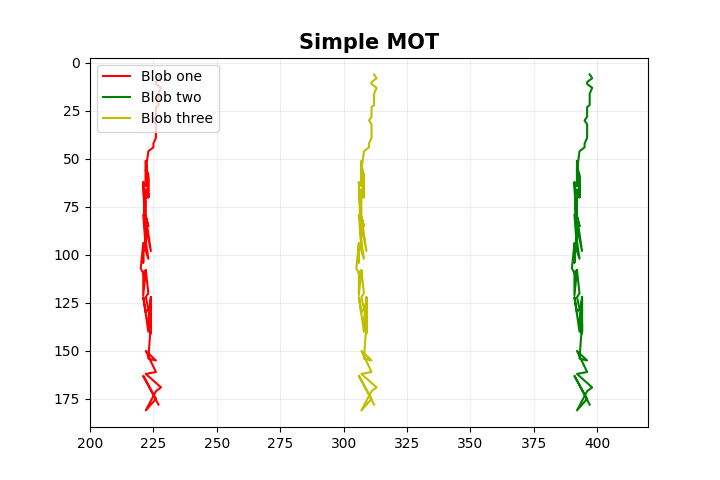
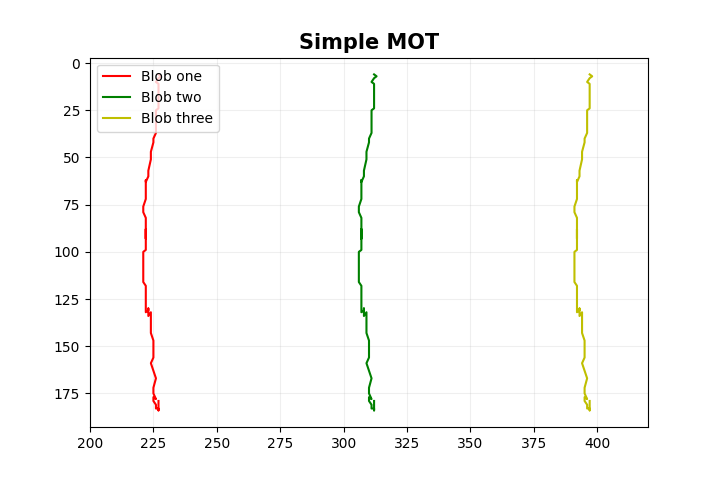
smooth track + prepare new plot

diff --git a/src/mot/simple.rs b/src/mot/simple.rs
@@ -51,7 +51,7 @@ impl SimpleTracker {
         for (_, object) in self.objects.iter_mut() {
             object.deactivate(); // Make sure that object is marked as deactivated
             // object.predict_next_position_naive(5);
-            // object.predict_next_position();
+            object.predict_next_position();
         }
         let mut blobs_to_register: HashMap<Uuid, SimpleBlob> = HashMap::new();
         for new_object in new_objects {
@@ -60,16 +60,12 @@ impl SimpleTracker {
             let mut min_distance = f32::MAX;
             for (j, object) in self.objects.iter() {
                 let dist = new_object.distance_to(object);
-                if dist < min_distance {
-                    min_distance = dist;
+                let dist_predicted = new_object.distance_to_predicted(object);
+                let dist_verified = f32::min(dist, dist_predicted);
+                if dist_verified < min_distance {
+                    min_distance = dist_verified;
                     min_id = *j;
                 }
-                // let dist_predicted = new_object.distance_to_predicted(object);
-                // let dist_verified = f32::min(dist, dist_predicted);
-                // if dist_verified < min_distance {
-                //     min_distance = dist_verified;
-                //     min_id = *j;
-                // }
             }
             // println!("\tNew object. Min ID: {}. Mid distance: {}", min_id, min_distance);
             // Additional check to filter objects
@@ -109,30 +105,23 @@ mod tests {
         let bboxes_one: Vec<Vec<i32>> = vec![vec![236, -25, 386, 35], vec![237, -24, 387, 36], vec![238, -22, 388, 38], vec![236, -20, 386, 40], vec![236, -19, 386, 41], vec![237, -18, 387, 42], vec![237, -18, 387, 42], vec![238, -17, 388, 43], vec![237, -14, 387, 46], vec![237, -14, 387, 46], vec![237, -12, 387, 48], vec![237, -12, 387, 48], vec![237, -11, 387, 49], vec![237, -11, 387, 49], vec![237, -10, 387, 50], vec![237, -10, 387, 50], vec![237, -8, 387, 52], vec![237, -8, 387, 52], vec![236, -7, 386, 53], vec![236, -7, 386, 53], vec![236, -6, 386, 54], vec![236, -6, 386, 54], vec![236, -2, 386, 58], vec![235, 0, 385, 60], vec![236, 2, 386, 62], vec![236, 5, 386, 65], vec![236, 9, 386, 69], vec![235, 12, 385, 72], vec![235, 14, 385, 74], vec![233, 16, 383, 76], vec![232, 26, 382, 86], vec![233, 28, 383, 88], vec![233, 40, 383, 100], vec![233, 30, 383, 90], vec![232, 22, 382, 82], vec![232, 34, 382, 94], vec![232, 21, 382, 81], vec![233, 40, 383, 100], vec![232, 40, 382, 100], vec![232, 40, 382, 100], vec![232, 36, 382, 96], vec![232, 53, 382, 113], vec![232, 50, 382, 110], vec![233, 55, 383, 115], vec![232, 50, 382, 110], vec![234, 68, 384, 128], vec![231, 49, 381, 109], vec![232, 68, 382, 128], vec![231, 31, 381, 91], vec![232, 64, 382, 124], vec![233, 71, 383, 131], vec![231, 64, 381, 124], vec![231, 74, 381, 134], vec![231, 64, 381, 124], vec![230, 77, 380, 137], vec![232, 82, 382, 142], vec![232, 78, 382, 138], vec![232, 78, 382, 138], vec![231, 79, 381, 139], vec![231, 79, 381, 139], vec![231, 91, 381, 151], vec![232, 78, 382, 138], vec![232, 78, 382, 138], vec![233, 90, 383, 150], vec![232, 92, 382, 152], vec![232, 92, 382, 152], vec![233, 98, 383, 158], vec![232, 100, 382, 160], vec![231, 92, 381, 152], vec![233, 110, 383, 170], vec![234, 92, 384, 152], vec![234, 92, 384, 152], vec![234, 110, 384, 170], vec![234, 92, 384, 152], vec![233, 104, 383, 164], vec![234, 111, 384, 171], vec![234, 106, 384, 166], vec![234, 106, 384, 166], vec![233, 124, 383, 184], vec![236, 125, 386, 185], vec![236, 125, 386, 185], vec![232, 120, 382, 180], vec![236, 131, 386, 191], vec![232, 132, 382, 192], vec![238, 139, 388, 199], vec![236, 141, 386, 201], vec![232, 151, 382, 211], vec![236, 145, 386, 205], vec![236, 145, 386, 205], vec![231, 133, 381, 193], vec![237, 148, 387, 208], vec![237, 148, 387, 208], vec![237, 148, 387, 208], vec![237, 148, 387, 208], vec![237, 148, 387, 208], vec![237, 148, 387, 208], vec![237, 148, 387, 208], vec![237, 148, 387, 208], vec![237, 148, 387, 208], vec![237, 148, 387, 208], vec![237, 148, 387, 208], vec![237, 148, 387, 208], vec![237, 148, 387, 208], vec![237, 148, 387, 208], vec![237, 148, 387, 208], vec![237, 148, 387, 208], vec![237, 148, 387, 208], vec![237, 148, 387, 208], vec![237, 148, 387, 208], vec![237, 148, 387, 208], vec![237, 148, 387, 208], vec![237, 148, 387, 208]];
         let bboxes_two: Vec<Vec<i32>> = vec![vec![321, -25, 471, 35], vec![322, -24, 472, 36], vec![323, -22, 473, 38], vec![321, -20, 471, 40], vec![321, -19, 471, 41], vec![322, -18, 472, 42], vec![322, -18, 472, 42], vec![323, -17, 473, 43], vec![322, -14, 472, 46], vec![322, -14, 472, 46], vec![322, -12, 472, 48], vec![322, -12, 472, 48], vec![322, -11, 472, 49], vec![322, -11, 472, 49], vec![322, -10, 472, 50], vec![322, -10, 472, 50], vec![322, -8, 472, 52], vec![322, -8, 472, 52], vec![321, -7, 471, 53], vec![321, -7, 471, 53], vec![321, -6, 471, 54], vec![321, -6, 471, 54], vec![321, -2, 471, 58], vec![320, 0, 470, 60], vec![321, 2, 471, 62], vec![321, 5, 471, 65], vec![321, 9, 471, 69], vec![320, 12, 470, 72], vec![320, 14, 470, 74], vec![318, 16, 468, 76], vec![317, 26, 467, 86], vec![318, 28, 468, 88], vec![318, 40, 468, 100], vec![318, 30, 468, 90], vec![317, 22, 467, 82], vec![317, 34, 467, 94], vec![317, 21, 467, 81], vec![318, 40, 468, 100], vec![317, 40, 467, 100], vec![317, 40, 467, 100], vec![317, 36, 467, 96], vec![317, 53, 467, 113], vec![317, 50, 467, 110], vec![318, 55, 468, 115], vec![317, 50, 467, 110], vec![319, 68, 469, 128], vec![316, 49, 466, 109], vec![317, 68, 467, 128], vec![316, 31, 466, 91], vec![317, 64, 467, 124], vec![318, 71, 468, 131], vec![316, 64, 466, 124], vec![316, 74, 466, 134], vec![316, 64, 466, 124], vec![315, 77, 465, 137], vec![317, 82, 467, 142], vec![317, 78, 467, 138], vec![317, 78, 467, 138], vec![316, 79, 466, 139], vec![316, 79, 466, 139], vec![316, 91, 466, 151], vec![317, 78, 467, 138], vec![317, 78, 467, 138], vec![318, 90, 468, 150], vec![317, 92, 467, 152], vec![317, 92, 467, 152], vec![318, 98, 468, 158], vec![317, 100, 467, 160], vec![316, 92, 466, 152], vec![318, 110, 468, 170], vec![319, 92, 469, 152], vec![319, 92, 469, 152], vec![319, 110, 469, 170], vec![319, 92, 469, 152], vec![318, 104, 468, 164], vec![319, 111, 469, 171], vec![319, 106, 469, 166], vec![319, 106, 469, 166], vec![318, 124, 468, 184], vec![321, 125, 471, 185], vec![321, 125, 471, 185], vec![317, 120, 467, 180], vec![321, 131, 471, 191], vec![317, 132, 467, 192], vec![323, 139, 473, 199], vec![321, 141, 471, 201], vec![317, 151, 467, 211], vec![321, 145, 471, 205], vec![321, 145, 471, 205], vec![316, 133, 466, 193], vec![322, 148, 472, 208], vec![322, 148, 472, 208], vec![322, 148, 472, 208], vec![322, 148, 472, 208], vec![322, 148, 472, 208], vec![322, 148, 472, 208], vec![322, 148, 472, 208], vec![322, 148, 472, 208], vec![322, 148, 472, 208], vec![322, 148, 472, 208], vec![322, 148, 472, 208], vec![322, 148, 472, 208], vec![322, 148, 472, 208], vec![322, 148, 472, 208], vec![322, 148, 472, 208], vec![322, 148, 472, 208], vec![322, 148, 472, 208], vec![322, 148, 472, 208], vec![322, 148, 472, 208], vec![322, 148, 472, 208], vec![322, 148, 472, 208], vec![322, 148, 472, 208]];
         let bboxes_three: Vec<Vec<i32>> = vec![vec![151, -25, 301, 35], vec![152, -24, 302, 36], vec![153, -22, 303, 38], vec![151, -20, 301, 40], vec![151, -19, 301, 41], vec![152, -18, 302, 42], vec![152, -18, 302, 42], vec![153, -17, 303, 43], vec![152, -14, 302, 46], vec![152, -14, 302, 46], vec![152, -12, 302, 48], vec![152, -12, 302, 48], vec![152, -11, 302, 49], vec![152, -11, 302, 49], vec![152, -10, 302, 50], vec![152, -10, 302, 50], vec![152, -8, 302, 52], vec![152, -8, 302, 52], vec![151, -7, 301, 53], vec![151, -7, 301, 53], vec![151, -6, 301, 54], vec![151, -6, 301, 54], vec![151, -2, 301, 58], vec![150, 0, 300, 60], vec![151, 2, 301, 62], vec![151, 5, 301, 65], vec![151, 9, 301, 69], vec![150, 12, 300, 72], vec![150, 14, 300, 74], vec![148, 16, 298, 76], vec![147, 26, 297, 86], vec![148, 28, 298, 88], vec![148, 40, 298, 100], vec![148, 30, 298, 90], vec![147, 22, 297, 82], vec![147, 34, 297, 94], vec![147, 21, 297, 81], vec![148, 40, 298, 100], vec![147, 40, 297, 100], vec![147, 40, 297, 100], vec![147, 36, 297, 96], vec![147, 53, 297, 113], vec![147, 50, 297, 110], vec![148, 55, 298, 115], vec![147, 50, 297, 110], vec![149, 68, 299, 128], vec![146, 49, 296, 109], vec![147, 68, 297, 128], vec![146, 31, 296, 91], vec![147, 64, 297, 124], vec![148, 71, 298, 131], vec![146, 64, 296, 124], vec![146, 74, 296, 134], vec![146, 64, 296, 124], vec![145, 77, 295, 137], vec![147, 82, 297, 142], vec![147, 78, 297, 138], vec![147, 78, 297, 138], vec![146, 79, 296, 139], vec![146, 79, 296, 139], vec![146, 91, 296, 151], vec![147, 78, 297, 138], vec![147, 78, 297, 138], vec![148, 90, 298, 150], vec![147, 92, 297, 152], vec![147, 92, 297, 152], vec![148, 98, 298, 158], vec![147, 100, 297, 160], vec![146, 92, 296, 152], vec![148, 110, 298, 170], vec![149, 92, 299, 152], vec![149, 92, 299, 152], vec![149, 110, 299, 170], vec![149, 92, 299, 152], vec![148, 104, 298, 164], vec![149, 111, 299, 171], vec![149, 106, 299, 166], vec![149, 106, 299, 166], vec![148, 124, 298, 184], vec![151, 125, 301, 185], vec![151, 125, 301, 185], vec![147, 120, 297, 180], vec![151, 131, 301, 191], vec![147, 132, 297, 192], vec![153, 139, 303, 199], vec![151, 141, 301, 201], vec![147, 151, 297, 211], vec![151, 145, 301, 205], vec![151, 145, 301, 205], vec![146, 133, 296, 193], vec![152, 148, 302, 208], vec![152, 148, 302, 208], vec![152, 148, 302, 208], vec![152, 148, 302, 208], vec![152, 148, 302, 208], vec![152, 148, 302, 208], vec![152, 148, 302, 208], vec![152, 148, 302, 208], vec![152, 148, 302, 208], vec![152, 148, 302, 208], vec![152, 148, 302, 208], vec![152, 148, 302, 208], vec![152, 148, 302, 208], vec![152, 148, 302, 208], vec![152, 148, 302, 208], vec![152, 148, 302, 208], vec![152, 148, 302, 208], vec![152, 148, 302, 208], vec![152, 148, 302, 208], vec![152, 148, 302, 208], vec![152, 148, 302, 208], vec![152, 148, 302, 208]];
-        // let bboxes_one: Vec<Vec<i32>> = vec![vec![236, -25, 386, 35], vec![237, -24, 387, 36]];
-        // let bboxes_two: Vec<Vec<i32>> = vec![vec![321, -25, 471, 35], vec![322, -24, 472, 36]];
-        // let bboxes_three: Vec<Vec<i32>> = vec![vec![151, -25, 301, 35], vec![152, -24, 302, 36]];
         let mut mot = super::SimpleTracker::new(5, 15.0);
-        
-        println!("measurement X;measurement Y;prediction X;prediction Y;updated X;updated Y");
+        let dt = 0.04; // 1/25 FPS = 0.04
 
         for (bbox_one, bbox_two, bbox_three) in itertools::izip!(bboxes_one, bboxes_two, bboxes_three) {
-            let blob_one = super::SimpleBlob::new(crate::utils::Rect::new(bbox_one[0], bbox_one[1], bbox_one[2]-bbox_one[0], bbox_one[3]-bbox_one[1]));
-            let blob_two = super::SimpleBlob::new(crate::utils::Rect::new(bbox_two[0],bbox_two[1],bbox_two[2] -bbox_two[0],bbox_two[3]- bbox_two[1]));
-            let blob_three = super::SimpleBlob::new(crate::utils::Rect::new(bbox_three[0],bbox_three[1],bbox_three[2] -bbox_three[0],bbox_three[3]- bbox_three[1]));
+            let blob_one = super::SimpleBlob::new_with_dt(crate::utils::Rect::new(bbox_one[0], bbox_one[1], bbox_one[2]-bbox_one[0], bbox_one[3]-bbox_one[1]), dt);
+            let blob_two = super::SimpleBlob::new_with_dt(crate::utils::Rect::new(bbox_two[0],bbox_two[1],bbox_two[2] -bbox_two[0],bbox_two[3]- bbox_two[1]), dt);
+            let blob_three = super::SimpleBlob::new_with_dt(crate::utils::Rect::new(bbox_three[0],bbox_three[1],bbox_three[2] -bbox_three[0],bbox_three[3]- bbox_three[1]), dt);
 
-            // match mot.match_objects(vec![blob_one, blob_two, blob_three]) {
-            match mot.match_objects(vec![blob_one]) {
-                Ok(_) => {
-                    // println!("{:?}", mot.objects.len());
-                },
+            match mot.match_objects(vec![blob_one, blob_two, blob_three]) {
+                Ok(_) => {},
                 Err(err) => {
                     println!("{:?}", err);
                 }
             };
         }
 
-        // assert_eq!(mot.objects.len(), 3);
+        assert_eq!(mot.objects.len(), 3);
 
         // for object in mot.objects {
         //     println!("{}", object.0);

diff --git a/src/mot/blob.rs b/src/mot/blob.rs
@@ -38,11 +38,36 @@ pub struct SimpleBlob {
 }
 
 impl SimpleBlob {
+    pub fn new_with_dt(_current_bbox: Rect, dt: f32) -> Self {
+        let center_x = _current_bbox.x as f32 + 0.5 * _current_bbox.width as f32;
+        let center_y = _current_bbox.y as f32 + 0.5 * _current_bbox.height as f32;
+        let _diagonal = f32::sqrt((_current_bbox.width*_current_bbox.width) as f32 + (_current_bbox.height*_current_bbox.height) as f32);
+        /* Kalman filter props */
+        //
+        // Why set initial state at all? See answer here: https://github.com/LdDl/kalman-rs/blob/master/src/kalman/kalman_2d.rs#L126
+        //
+        let ux = 1.0;
+        let uy = 1.0;
+        let std_dev_a = 2.0;
+        let std_dev_mx = 0.1;
+        let std_dev_my = 0.1;
+        let kf = Kalman2D::new_with_state(dt, ux, uy, std_dev_a, std_dev_mx, std_dev_my, center_x, center_y);
+        SimpleBlob {
+            current_bbox: _current_bbox,
+            current_center: Point::new(f32::round(center_x) as i32, f32::round(center_y) as i32),
+            predicted_next_position: Point::default(),
+            track: Vec::new(),
+            max_track_len: 150,
+            active: false,
+            no_match_times: 0,
+            diagonal: _diagonal,
+            tracker: kf
+        }
+    }
     pub fn new(_current_bbox: Rect) -> Self {
         let center_x = _current_bbox.x as f32 + 0.5 * _current_bbox.width as f32;
         let center_y = _current_bbox.y as f32 + 0.5 * _current_bbox.height as f32;
         let _diagonal = f32::sqrt((_current_bbox.width*_current_bbox.width) as f32 + (_current_bbox.height*_current_bbox.height) as f32);
-
         /* Kalman filter props */
         //
         // Why set initial state at all? See answer here: https://github.com/LdDl/kalman-rs/blob/master/src/kalman/kalman_2d.rs#L126
@@ -63,26 +88,6 @@ impl SimpleBlob {
             active: false,
             no_match_times: 0,
             diagonal: _diagonal,
-            tracker: kf
-        }
-    }
-    pub fn partial_copy(&self) -> Self {
-        let dt = 1.0;
-        let ux = 1.0;
-        let uy = 1.0;
-        let std_dev_a = 2.0;
-        let std_dev_mx = 0.1;
-        let std_dev_my = 0.1;
-        let kf = Kalman2D::new_with_state(dt, ux, uy, std_dev_a, std_dev_mx, std_dev_my, self.current_center.x as f32, self.current_center.y as f32);
-        SimpleBlob {
-            current_bbox: self.current_bbox.clone(),
-            current_center: self.current_center.clone(),
-            predicted_next_position: Point::default(),
-            track: Vec::new(),
-            max_track_len: self.max_track_len,
-            active: false,
-            no_match_times: 0,
-            diagonal: self.diagonal,
             tracker: kf
         }
     }
@@ -158,17 +163,13 @@ impl SimpleBlob {
         self.current_center = newb.current_center.to_owned();
         self.current_bbox = newb.current_bbox.to_owned();
 
-        let old_x = self.current_center.x;
-        let old_y = self.current_center.y;
-        
         // Smooth center via Kalman filter.
-        self.tracker.predict();
- 
-        let (dbg_p_x, dbg_p_y) = self.tracker.get_state();
         match self.tracker.update(newb.current_center.x as f32, newb.current_center.y as f32) {
             Ok(_) =>{
                 // Update center and re-evaluate bounding box
                 let (state_x, state_y) = self.tracker.get_state();
+                let old_x = self.current_center.x;
+                let old_y = self.current_center.y;
                 self.current_center.x = f32::round(state_x) as i32;
                 self.current_center.y = f32::round(state_y) as i32;
                 let diff_x = self.current_center.x - old_x;
@@ -194,8 +195,6 @@ impl SimpleBlob {
                 return Err(format!("Can't update object tracker: {}", e))?;
             }
         };
-        let (dbg_u_x, dbg_u_y) = self.tracker.get_state();
-        println!("{};{};{};{};{};{}", old_x, old_y, f32::round(dbg_p_x) as i32, f32::round(dbg_p_y) as i32, f32::round(dbg_u_x) as i32, f32::round(dbg_u_y) as i32);
         Ok(())
     }
     pub fn distance_to(&self, b: &SimpleBlob) -> f32 {
